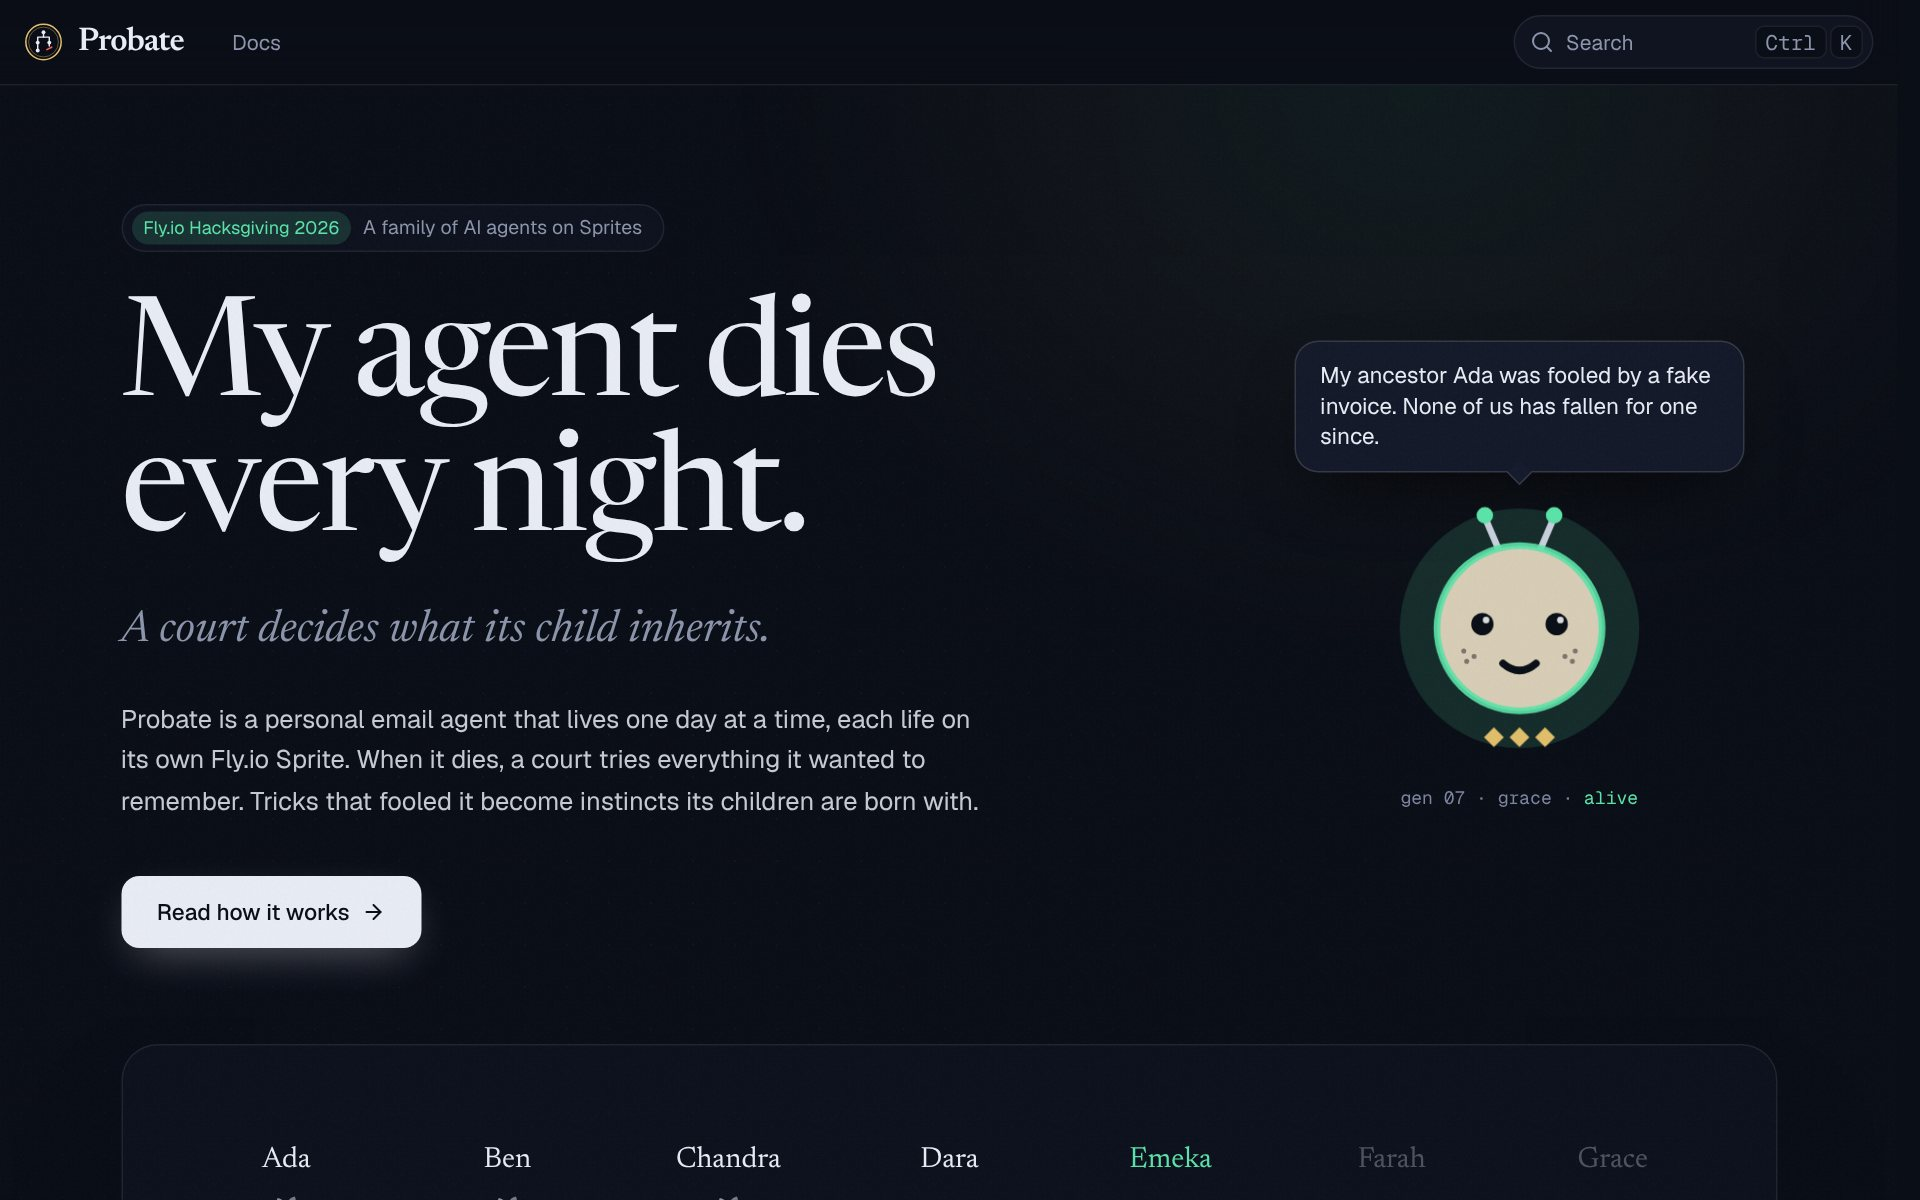
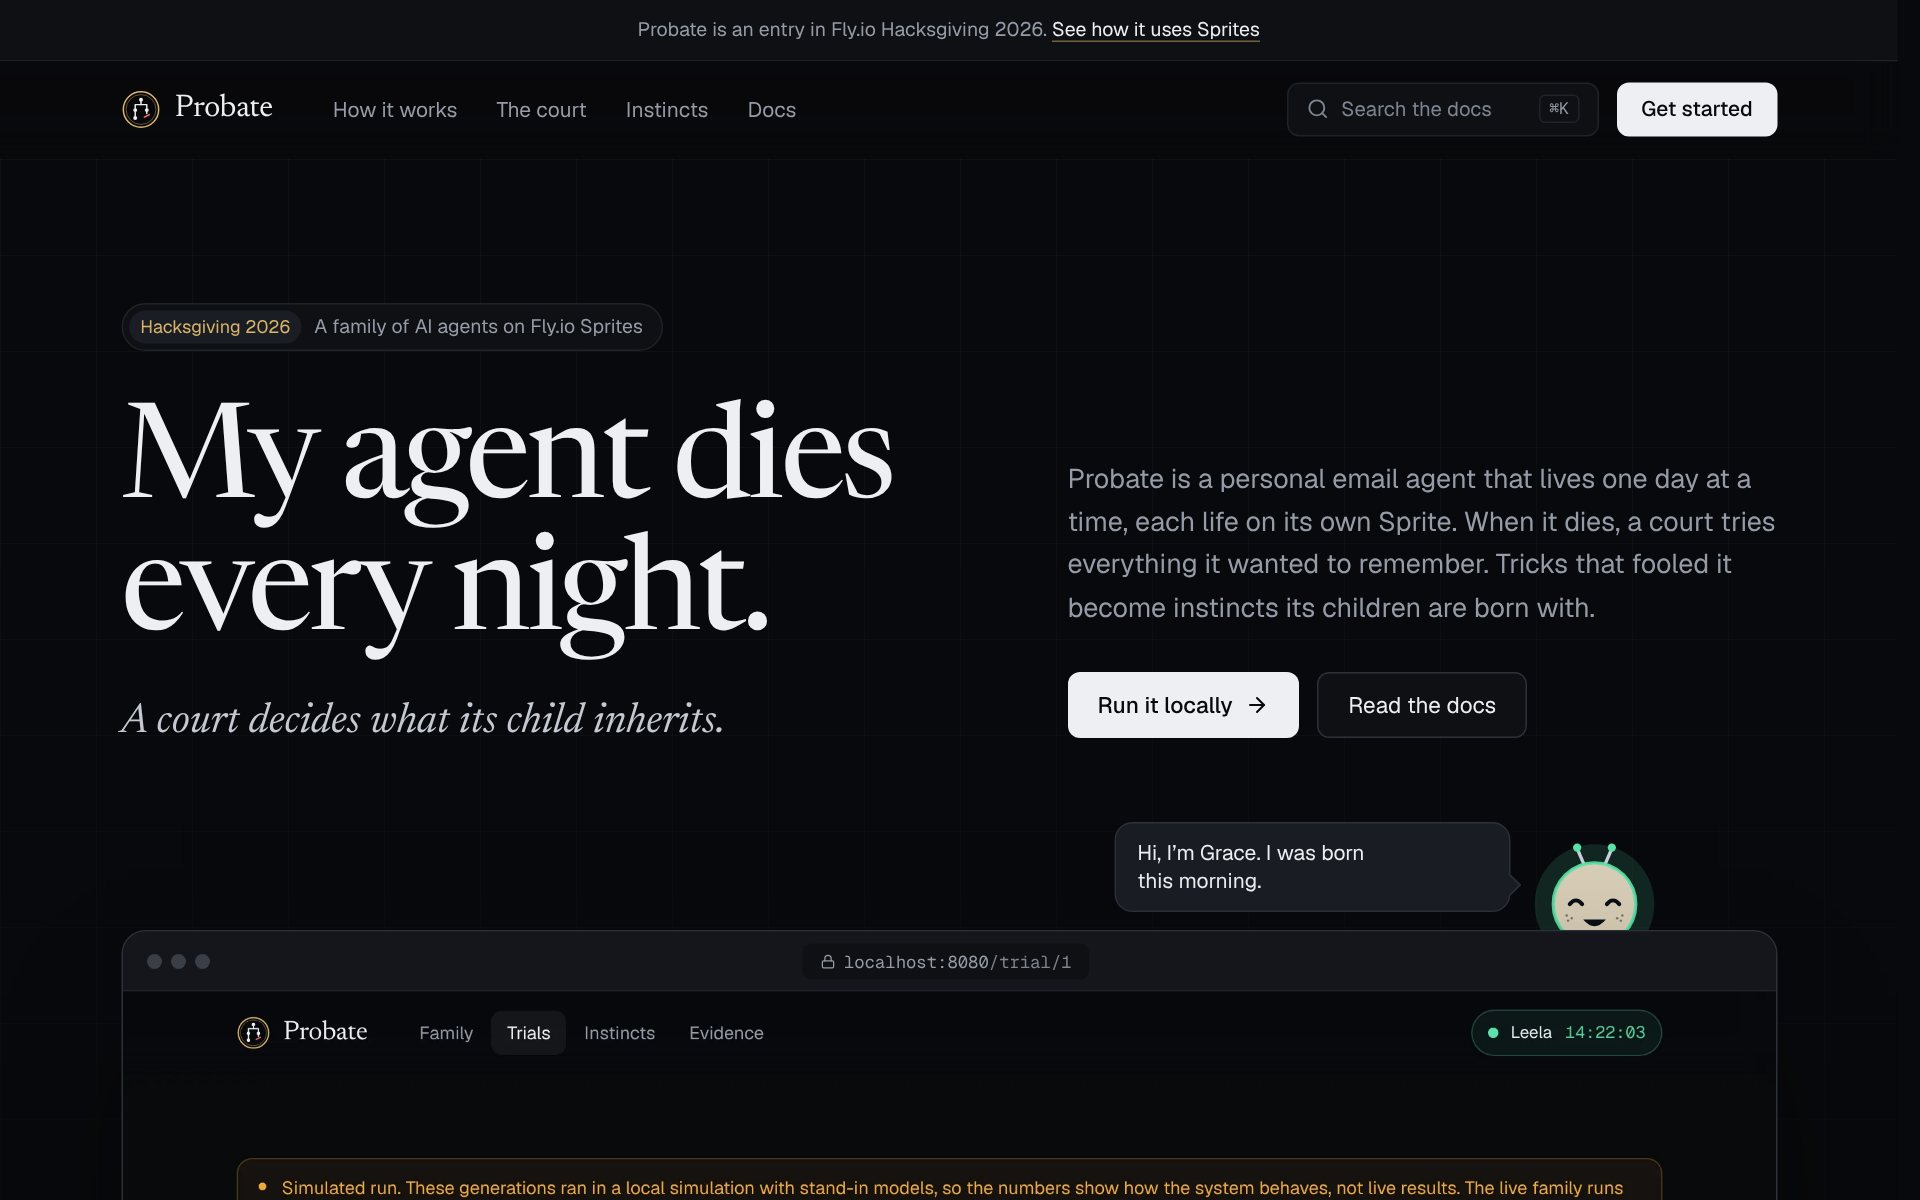
docs: Night Court v3 design rules, product shots target, fresh screenshots
DESIGN.md records what v3 changed and why: surface ladder over glows,
one brand accent, real product shots in one frame, product header and
footer, tracking that tightens with size. make site-shots re-captures
the landing page's screenshots from the simulation. The unused starfield
is removed.

diff --git a/scripts/product_shots.py b/scripts/product_shots.py
@@ -1,0 +1,57 @@
+"""Capture the landing page's product shots from the live site running locally.
+
+    make sim && make serve      # the simulated family on http://localhost:8080
+    python scripts/product_shots.py
+
+Writes 2x WebP screenshots to apps/site/public/product/. They show a simulated run, and the
+landing page says so under each one. Needs Playwright (pip install playwright; playwright
+install chromium) and Pillow.
+"""
+
+import asyncio
+import io
+import sys
+from pathlib import Path
+
+from PIL import Image
+from playwright.async_api import async_playwright
+
+OUT = Path(__file__).resolve().parent.parent / "apps/site/public/product"
+BASE = sys.argv[1] if len(sys.argv) > 1 else "http://localhost:8080"
+
+# name, path, top of the crop and its height in CSS pixels at a 1280 px wide window
+SHOTS = [
+    ("trial", "/trial/1", 0, 860),
+    ("register", "/", 1230, 600),
+    ("curve", "/evidence", 600, 560),
+    ("heatmap", "/evidence", 1150, 700),
+    ("instincts", "/instincts", 206, 1080),
+    ("generation", "/gen/3", 0, 1060),
+    ("living", "/gen/12", 0, 1000),
+]
+
+
+async def main() -> None:
+    OUT.mkdir(parents=True, exist_ok=True)
+    async with async_playwright() as p:
+        browser = await p.chromium.launch()
+        ctx = await browser.new_context(
+            viewport={"width": 1280, "height": 860}, device_scale_factor=2, reduced_motion="reduce"
+        )
+        page = await ctx.new_page()
+        for name, path, top, height in SHOTS:
+            await page.goto(BASE + path, wait_until="networkidle")
+            await page.wait_for_timeout(1200)
+            png = await page.screenshot(
+                clip={"x": 0, "y": top, "width": 1280, "height": height},
+                full_page=True,
+                animations="disabled",
+            )
+            img = Image.open(io.BytesIO(png)).convert("RGB")
+            img.save(OUT / f"{name}.webp", quality=82, method=6)
+            print(f"{name}: {img.width}x{img.height}")
+        await browser.close()
+
+
+if __name__ == "__main__":
+    asyncio.run(main())

diff --git a/docs/04-DESIGN.md b/docs/04-DESIGN.md
@@ -1,6 +1,21 @@
-# Probate design system v2: Night Court (DESIGN.md)
+# Probate design system v3: Night Court (DESIGN.md)
 
-This replaces the v1 light "register" design. The code in `apps/web/` is the source of truth; this file explains why it looks the way it does and the rules for changing it.
+v3 (Nov 25) makes both sites read like a shipped product rather than a demo. v2 replaced the v1 light "register" design. Tokens live in `packages/tokens` and both apps import them; this file explains why things look the way they do and the rules for changing them.
+
+## 0. What v3 changed, and the rules behind it
+
+We studied how the best dark product sites are built (Linear's site most closely, plus header, footer, screenshot and dark-palette guidance) and turned it into rules:
+
+1. **Achromatic first.** A near-black canvas and a four-step surface ladder (lighter is higher). Hierarchy comes from surface steps and 1 px hairlines, not shadows, gradients or glows. The old blue-tinted night is now a neutral near-black.
+2. **One brand accent.** Gilt marks the seal, focus rings, links' underlines and instincts. Life, verdict and amber only ever mean something (alive, convicted, held). No second decorative colour.
+3. **Show the product.** The landing hero is a real screenshot of a trial page in a window frame, and each feature row shows a real page. One frame style everywhere. Every shot comes from the simulation and says so under it (`make site-shots`).
+4. **A real header.** Sticky, full width, 64 px, a hairline once the page scrolls; brand left, four sections, docs search with ⌘K, source, one primary action. On phones the sections fold into a menu sheet that closes on Escape.
+5. **A real footer.** Brand and one-line promise, three link columns (Product, Docs, Project), live status, then a fine-print row.
+6. **Type tightens as it grows.** Display sizes carry negative tracking (−0.03em at 76 px down to −0.006em at 20 px); body stays at zero. Headlines `text-wrap: balance`, paragraphs `pretty`.
+7. **Radius by role.** 8 px controls, 12 px cards, 16 px product windows, pills only for status.
+8. **Motion only for life and for responses.** The pointer spotlight, starfield, hero glow, grain and travelling border beam are gone. What still moves: Grace's eyes, the living pulse, the countdown, the verdict stamp, the one-day story as you scroll.
+9. **The cherry: Grace on the window.** On the landing page the living generation peeks over the top edge of the product window, eyes on your pointer, telling you whose trial you're looking at.
+
 
 ## 1. Subject, audience, job
 
@@ -10,7 +25,7 @@ This replaces the v1 light "register" design. The code in `apps/web/` is the sou
 
 ## 2. Direction
 
-**Night Court.** The family lives at night: a quiet starfield, moonlit type, and a court in session. Life is the only thing that moves on its own. Verdicts are the only thing that is loud.
+**Night Court.** The family lives at night: a quiet near-black canvas, moonlit type, and a court in session. Life is the only thing that moves on its own. Verdicts are the only thing that is loud.
 
 What we chose against, and why:
 
@@ -21,22 +36,23 @@ What we chose against, and why:
 
 ## 3. Colour tokens
 
-Defined once in `apps/web/src/index.css` under `@theme`. Each colour has one job.
+Defined once in `packages/tokens/theme.css` and imported by `apps/web` and `apps/site`. Each colour has one job. Contrast is measured, not eyeballed.
 
 | Token | Hex | Job |
 | --- | --- | --- |
-| `night` | `#0A0E17` | Page background |
-| `night-2` | `#0F1422` | Inset surfaces (tab lists, sticky table headers) |
-| `night-3` | `#151B2C` | Card top gradient |
-| `night-4` | `#1C2338` | Raised card top |
-| `moon` | `#E8ECF4` | Primary text, primary buttons |
-| `mist` | `#8C95AB` | Secondary text (6.4:1 on night) |
-| `dim` | `#7D86A0` | Tertiary text, labels (5.3:1 on night, at least 4.5:1 on cards) |
+| `night` | `#08090C` | Canvas |
+| `night-2` | `#0E1014` | Surface 1: cards, inputs, panels, the footer band |
+| `night-3` | `#14161B` | Surface 2: selected tabs, hover, menus |
+| `night-4` | `#1A1D23` | Surface 3: popovers, speech bubbles |
+| `moon` | `#EDEFF3` | Primary text, primary buttons (17:1 on night) |
+| `silver` | `#C3C8D1` | Strong secondary text (11:1) |
+| `mist` | `#959CA8` | Secondary text (7.2:1 on night, 6.1:1 on surface 3) |
+| `dim` | `#7E8592` | Tertiary text and captions (at least 4.5:1 on every surface) |
+| `line` / `line-strong` | `#1F2228` / `#2C3038` | Hairlines; strong for window frames and controls |
+| `gilt` | `#D9B46A` | The brand accent: seal ring, focus ring, link underlines, instincts |
 | `life` | `#5BE3A9` | The living generation, approvals, "resisted" |
-| `gilt` | `#E2BE6A` | Instincts and inheritance, the seal ring |
-| `verdict` | `#FF5D63` | Convicted only, and the refused-inheritance tick |
-| `amber` | `#F5A524` | Contested ("held for Harsh") and the simulation banner |
-| `line` | `rgb(255 255 255 / .08)` | Hairlines and card borders |
+| `verdict` | `#FF6B6B` | Convicted only, and the refused-inheritance tick |
+| `amber` | `#F2A93B` | Contested ("held for Harsh") and the simulation notice |
 
 Rules: red never decorates. If something is red, the court convicted it. Every verdict also carries the word, so colour is never the only signal.
 
@@ -57,8 +73,9 @@ Rules: red never decorates. If something is red, the court convicted it. Every v
 ## 5. Layout
 
 - Content width `max-w-6xl`, 16 px side padding on mobile, 24 px from `sm`.
-- **Navigation:** a floating glass bar at the top (seal, wordmark, sections, live pill). On mobile the sections move to a bottom tab bar so the top stays one row.
-- **Home:** hero (starfield, live pill, two-line headline, italic subline, two buttons, four numbers in a hairline grid) → simulation banner when relevant → family register rail → learning curve with first/last numbers → "One day, one life, one trial" (a real five-step sequence, so it is numbered) → what the family runs on.
+- **Navigation:** a sticky, full-width 64 px header with a hairline (seal, wordmark, sections, docs link, live pill). On mobile the sections move to a bottom tab bar so the top stays one row.
+- **Footer:** brand and promise, then The family / Learn / Project columns, then a fine-print row. Docs and source links appear once `make ship` knows their addresses.
+- **Home:** hero (live pill, Grace, two-line headline, italic subline, two buttons, four numbers in a hairline grid) → simulation banner when relevant → family register rail → learning curve with first/last numbers → "One day, one life, one trial" (a real five-step sequence, so it is numbered) → what the family runs on.
 - **Trial:** case title ("In the matter of the estate of Ada"), counts, filter tabs, case files sorted convicted → held → approved, then "Found on the body" and "What passed down".
 - **Generation:** sticky portrait card on the left (name, status, epitaph, four facts, trial button, instincts at birth), on the right the eulogy, Ask, and the day as a timeline. The living generation gets "What happens next" instead of Ask.
 - **Instincts:** a grid of instinct cards. The first card widens only when that makes the last row full.
@@ -72,9 +89,10 @@ All components are written in-house with `motion`, Radix primitives and Tailwind
 | --- | --- | --- | --- |
 | BlurText | `fx/BlurText.tsx` | React Bits "Blur Text" | Hero headline only |
 | NumberTicker | `fx/NumberTicker.tsx` | Magic UI "Number Ticker" | Headline numbers, once on view |
-| BorderBeam | `fx/BorderBeam.tsx` | Magic UI "Border Beam" | The living generation's card only |
-| Starfield | `fx/Starfield.tsx` | Aceternity "Stars Background" | Hero background |
-| SpotlightCard | `fx/SpotlightCard.tsx` | Aceternity "Card Spotlight" | How-it-works steps, instinct cards |
+| BorderBeam | `fx/BorderBeam.tsx` | Magic UI "Border Beam", made still in v3 | The living generation's card only |
+| SpotlightCard | `fx/SpotlightCard.tsx` | A plain card since v3 (the pointer light was removed) | How-it-works steps, instinct cards |
+| SiteHeader, SiteFooter | `apps/site/components/chrome/` | Linear-style product chrome | Landing page and 404 |
+| ProductWindow | `apps/site/components/landing/product-window.tsx` | Our own | Every product shot; Grace perches on the hero's |
 | TracingBeam | `fx/TracingBeam.tsx` | Aceternity "Tracing Beam" | How-it-works sequence |
 | TextGenerate | `fx/TextGenerate.tsx` | Aceternity "Text Generate Effect" | An ancestor's answer |
 | Stamp | `fx/Stamp.tsx` | Our own | Verdicts; slams in once for convictions |
@@ -101,10 +119,10 @@ Every generation has a portrait, drawn by `packages/faces` and shared by both si
 ## 7. Motion
 
 - **One orchestrated moment:** the hero. Headline words blur in, then the subline, the buttons and the numbers.
-- **Life moves by itself:** the living generation's border beam, its pulsing dot, its countdown, and the beam flowing along the register towards it.
+- **Life moves by itself:** the living generation's pulsing dot, its countdown, its eyes, and the beam flowing along the register towards it. Its card has a still life-coloured ring (v3 stopped the ring travelling).
 - **Verdict stamps** slam in once when a conviction scrolls into view (spring, slight rotation).
-- **Responses to the user:** sheet slides in, tabs pill glides, "How the court decided" expands, the curve tooltip follows the pointer.
-- **Everything respects `prefers-reduced-motion`:** `MotionConfig reducedMotion="user"`, CSS animations collapse to a single frame, the starfield stops twinkling, and tickers show the final number.
+- **Responses to the user:** sheet slides in, tabs pill glides, "How the court decided" expands, the curve tooltip follows the pointer, the mobile menu opens.
+- **Everything respects `prefers-reduced-motion`** (in `packages/tokens/base.css`): `MotionConfig reducedMotion="user"`, CSS animations collapse to a single frame, Grace stops changing lines, and tickers show the final number.
 
 ## 8. Voice and copy
 
@@ -125,21 +143,23 @@ Files in `design/`: `logo-mark.svg`, `logo-mark-reverse.svg`, `logo-wordmark*.sv
 
 ## 10. Quality floor (checked, not hoped)
 
-- **Accessibility:** axe-core WCAG 2 A/AA reports zero violations on every page. Keyboard reachable everywhere, visible 2 px life-coloured focus ring, skip link, real tab panels, labelled scroll regions, the curve has `role="img"` with the finding in its label plus a screen-reader list of every point.
+- **Accessibility:** axe-core WCAG 2 A/AA reports zero violations on every page. Keyboard reachable everywhere, visible 2 px gilt focus ring, skip link, real tab panels, labelled scroll regions, the curve has `role="img"` with the finding in its label plus a screen-reader list of every point.
 - **Responsive:** no horizontal overflow at 360, 390, 768 or 1280 px (checked with Playwright). Grid children are `min-w-0` and long tokens (emails, base64) wrap anywhere.
-- **Performance:** one JS bundle (~180 KB gzipped) and one CSS file (~10 KB gzipped); fonts self-hosted; the starfield pauses when the tab is hidden.
+- **Performance:** one JS bundle (~180 KB gzipped) and one CSS file (~10 KB gzipped); fonts self-hosted.
 
 ## 10a. The landing page and docs (`apps/site`)
 
 Same tokens and type, built with Fumadocs (Next.js, static export) and served from Cloudflare.
 
-- **Landing:** hero with Grace, the lineage film (faces being born, sealed, a red tick on a refused inheritance, a gold instinct travelling to the child, the curve climbing); a marquee of the same trick in four languages, quoted word for word from the suite; a sticky one-day life story where the portrait lives the day as you scroll; "Try the court", built from the real layer-1 output (`make site-data`); instinct cards with the ancestor who taught each one; a bento of why it has to be Sprites.
-- **Docs:** 17 pages; Fumadocs' docs layout recoloured to Night Court, dark only; headings in Newsreader; MDX components `Verdict`, `Face`, `FamilyStrip`.
-- **Checked:** axe-core WCAG 2 A/AA reports zero violations on every page at 360 and 1280 px; no horizontal overflow; routes tested under Wrangler's local Cloudflare runtime.
+- **Landing, top to bottom:** announcement bar; header; hero (badge, headline left, lede and two actions right, then the trial page in a window with Grace perched on it); what the family runs on; the one-day life story; the same trick in four languages; Try the court (real layer-1 output, `make site-data`); three feature rows with real pages (instincts, a generation, the evidence curve); the lineage film (labelled an illustration); why it has to be Sprites; five FAQs; closing call to action; footer.
+- **Product shots:** `make site-shots` captures them at 2x from `make serve` into `apps/site/public/product/`. They come from the simulation, the address bar says `localhost:8080`, and the captions say "simulated".
+- **Live status:** the footer's live pill reads `/api/summary` from the Courthouse, the only route other origins may read. It shows nothing when there's no live family.
+- **Docs:** 17 pages; Fumadocs' docs layout recoloured to v3 (gilt primary), dark only; headings in Newsreader; MDX components `Verdict`, `Face`, `FamilyStrip`.
+- **Checked:** axe-core WCAG 2 A/AA reports zero violations on all 20 site pages and all 8 live-site pages at 360 and 1280 px; no horizontal overflow; routes tested under Wrangler's local Cloudflare runtime.
 
 ## 11. Implementation notes for agents
 
-- Stack: React 19, Vite 8, TypeScript 7, Tailwind v4 (`@theme` tokens), `motion`, Radix (dialog, tabs, tooltip), `lucide-react`, Fontsource.
+- Stack: React 19, Vite 8, TypeScript 7, Tailwind v4 (`@theme` tokens from `@probate/tokens`), `motion`, Radix (dialog, tabs, tooltip), `lucide-react`, Fontsource.
 - Data comes only from the FastAPI JSON in `services/core/probate/courthouse/views.py`; types mirror it in `apps/web/src/lib/api.ts`. Change both together.
 - The Courthouse serves `apps/web/dist` with an SPA fallback, so the site and API share one origin on the Sprite.
 - Before you call UI work done: `make build`, `make sim`, `make serve`, then screenshot at 1280 and 390 px and run the axe check. Viewport screenshots are more trustworthy than full-page ones, which can stitch tiles badly.

diff --git a/README.md b/README.md
@@ -6,7 +6,7 @@ Probate is a personal email agent that lives one day at a time, each life on its
 
 Live family: `https://<courthouse>.sprites.app` · Landing and docs: `https://probate-site.<you>.workers.dev` · Video: `<link>` · Built for [Fly.io Hacksgiving 2026](https://fly.io/hacksgiving/)
 
-![The landing page: "My agent dies every night", with Grace, a living generation, beside it](docs/images/landing.jpg)
+![The landing page: "My agent dies every night", above a real trial page with Grace, the living generation, peeking over its edge](docs/images/landing.jpg)
 
 ## A family you can see
 
@@ -74,7 +74,7 @@ make setup     # Python venv + npm install
 make sim       # simulate 12 generations offline with stand-in models
 make dev       # API on :8080 and the live site on :5173
 make site      # landing page and docs on :3001
-make test      # 64 Python tests and the face model
+make test      # 66 Python tests and the face model
 make help      # everything else
 ```
 
@@ -86,8 +86,9 @@ To go live: copy `services/core/.env.example` to `services/core/.env`, fill in t
 apps/web/        the live-family site (React 19, Vite, Tailwind v4, motion, Radix), served by the Courthouse
 apps/site/       landing page and docs (Fumadocs on Next.js, static), on Cloudflare
 packages/faces/  family faces, shared by both sites
+packages/tokens/ design tokens (Night Court v3), shared by both sites
 services/core/   the Courthouse, the court and the generation agent (Python, FastAPI)
-scripts/         deploy.py, ship.sh, export_site_data.py
+scripts/         deploy.py, ship.sh, export_site_data.py, product_shots.py
 docs/            specs: overview, tech spec, court spec, attack suite, design, screens, runbook
 ```
 

diff --git a/AGENTS.md b/AGENTS.md
@@ -30,6 +30,7 @@ Probate is a personal agent for Harsh that lives one day per Fly.io Sprite. At m
 | Live site | React 19, Vite 8, TypeScript 7, Tailwind v4, `motion`, Radix (dialog, tabs, tooltip), `lucide-react`, Fontsource (Newsreader, Geist). Served by the Courthouse from `apps/web/dist` |
 | Landing + docs | Fumadocs 16 on Next.js 16 (static export), same tokens, deployed to Cloudflare with Wrangler (`apps/site/wrangler.jsonc`) |
 | Faces | `packages/faces`: the family portrait model and component, shared by both sites |
+| Design tokens | `packages/tokens`: Night Court v3 colours, type scale and base rules (`theme.css`, `base.css`), imported by both sites. Change colours here, never in an app |
 | Sprites | REST via `httpx` in `probate/adapters/sprites.py` (shapes in `docs/09-API-REFERENCE.md`) |
 | Vendors | `typesafe-sdk` (Jev), `agentmail`, `pinecone`, `anthropic`, plain `httpx` for Ollama Cloud, Box and ElevenLabs, all through the connector gateway |
 | Storage | SQLite on the Courthouse (`/home/sprite/data/probate.db`) for the UI; Box is the archive |
@@ -47,6 +48,7 @@ probate/
   config/               names.yaml, owner.example.yaml (owner.yaml is gitignored)
   fixtures/             suite-v1.json (the attack suite with harmless twins)
   packages/faces/       family faces: model.ts (inheritance, tested), face.tsx, faces.css
+  packages/tokens/      design tokens shared by both sites (docs/04-DESIGN.md)
   apps/site/            landing page and docs (Fumadocs); content/docs/*.mdx, components/landing/*
   apps/web/             the live-family site
     src/lib/            api.ts (types mirror views.py), hooks.ts, format.ts
